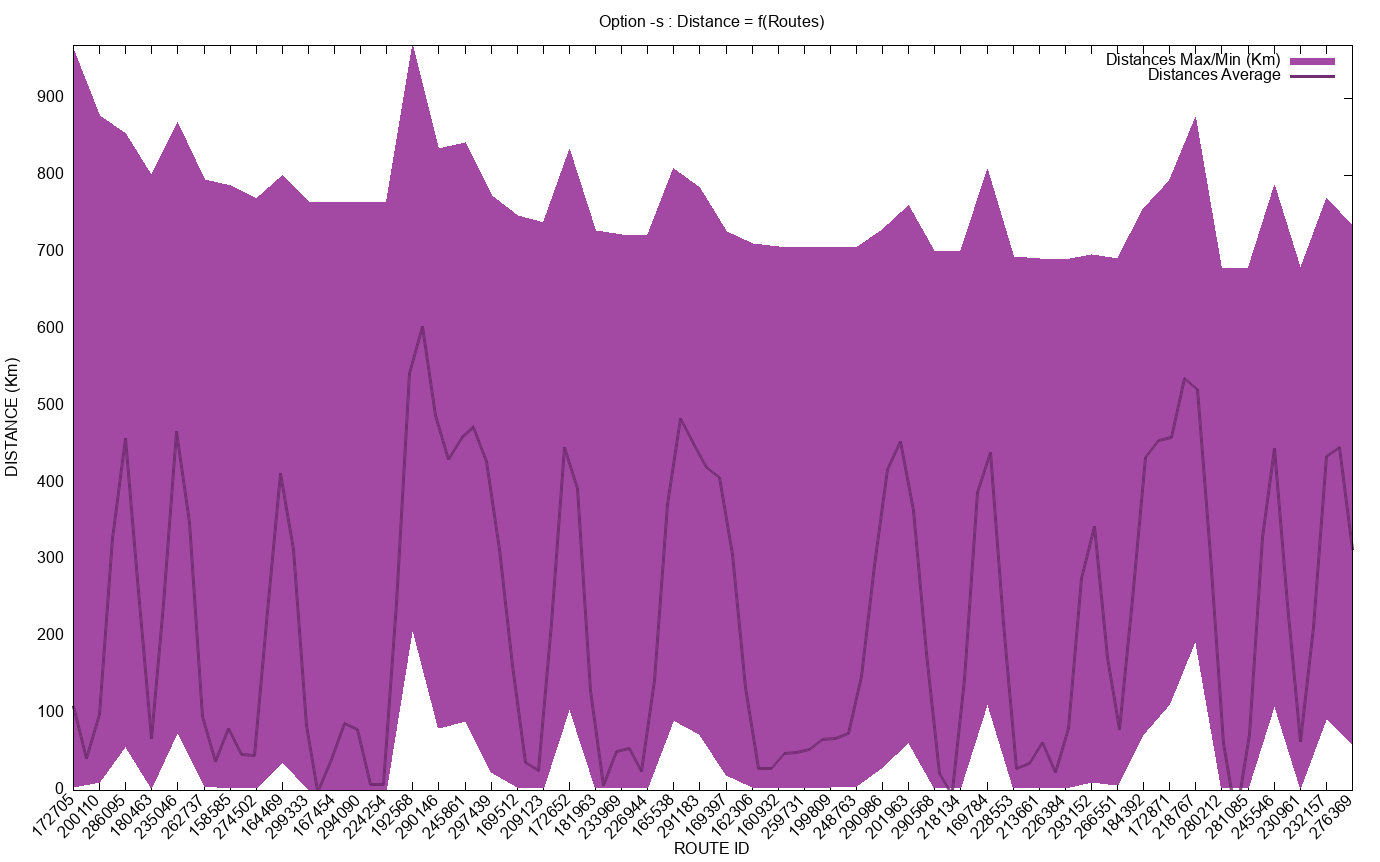
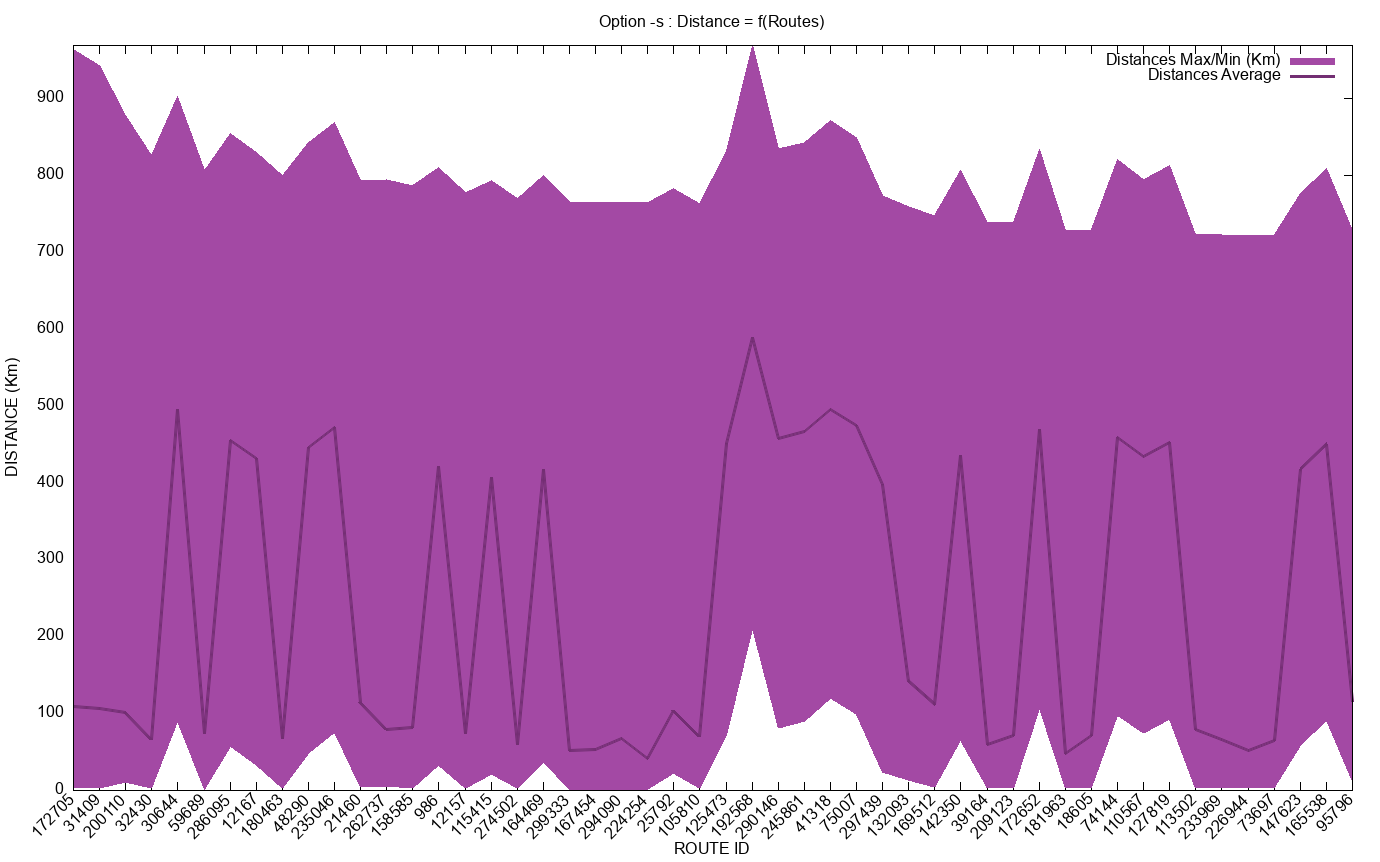
Fixed T, applied the same logic to S

diff --git a/progc/src/process.c b/progc/src/process.c
@@ -163,8 +163,17 @@ void T_Init(FILE* fData){
       pTemp->pRoutes = addAvlInt(pTemp->pRoutes, pLine->route_ID);
     }
   }
-  inorderTown(pTown);
-  return;
+  
+  //
+  // PASS 2 : get 10 most visited towns
+  // 
+  // To prevent previous issues with duplicate nPass values,
+  // We're going to avoid making an nPath AVL altogether.
+  // This is a bit hacky as using a sequential array to sort is
+  // slow, but we should only need to sort an array of size 10
+  // Since we'll only compare a value to the smallest of the array
+  // to not even compare our input values should we not need to
+  // add them to the top 10.
   AvlTown** top10;
   top10 = malloc(10*sizeof(AvlTown*));
   for (int i = 0; i < 10; i++) {
@@ -174,50 +183,58 @@ void T_Init(FILE* fData){
     top10[i]->nPass = 0;
     top10[i]->name = NULL;
   }
-  if (!CHECK_PTR(pTown)) T_Process1(pTown, top10);
+  if (!CHECK_PTR(pTown)) T_Process(pTown, top10);
 
-  for (int i = 0; i < 10; i++) {
-    printf("%s, %i, %i\n", top10[i]->name, top10[i]->nPass, top10[i]->nFirst);
-  }
-  return;
-  // Put our top10 in an AVL sorted by town name to sort the result when printing
+  // 
+  // PASS 3 : Alphabetical sorting
+  // 
+  // Now that we have our top 10 cities, sorting them
+  // by alphabetical order is trivial.
   AvlTown* top10pTown = createAvlTown(top10[0]->name);
   top10pTown->nPass = top10[0]->nPass;
   top10pTown->nFirst = top10[0]->nFirst;
   for (int i = 1; i<10; i++) {
     top10pTown = addAvlTown(top10pTown, top10[i]->name);
-    top10pTown->nPass = top10[0]->nPass;
-    top10pTown->nFirst = top10[0]->nFirst;
+    AvlTown* pNew = isInAvlTown(top10pTown, top10[i]->name);
+    pNew->nPass = top10[i]->nPass;
+    pNew->nFirst = top10[i]->nFirst;
   }
   inorderTown(top10pTown);
 }
 
 
 // Very simple code that just gets a top 10 of the values in pTown.
-void T_Process1(AvlTown* pTown, AvlTown** top10){
-  if(pTown){
-    pTown->nPass = avlIntSize(pTown->pRoutes); 
+// In theory, this is O(scary), but in practice, it should be fast
+// enough since our array is of size 10.
+void T_Process(AvlTown* pTown, AvlTown** top10) {
+  if (pTown) {
+    pTown->nPass = avlIntSize(pTown->pRoutes);
 
-    if(pTown->nPass > top10[9]->nPass){
+    // If pTown->nPass is large enough to be allowed in the top 10...
+    if (pTown->nPass > top10[9]->nPass) {
+      // ... Get where it can go to not break the sorting...
       int i = 0;
-      while((pTown->nPass < top10[i]->nPass) && i<10){
+      while ((pTown->nPass < top10[i]->nPass) && i < 10) {
         i++;
       }
-    
-      for(int j = i+1; j < 9; j++) {
-        top10[j]->nFirst = top10[j-1]->nFirst;
-        top10[j]->nPass = top10[j-1]->nPass;
-        top10[j]->name = top10[j-1]->name;
+
+      // "Sliiiiide to the right ! Cha cha real smooth  !""
+      for (int j = 8; j >= i; j--) {
+        top10[j+1]->name = top10[j]->name;
+        top10[j+1]->nPass = top10[j]->nPass;
+        top10[j+1]->nFirst = top10[j]->nFirst;
       }
+      // Add it to the newly made spot
       top10[i]->nPass = pTown->nPass;
       top10[i]->name = pTown->name;
       top10[i]->nFirst = pTown->nFirst;
     }
 
-    T_Process1(pTown->pL, top10);
-    T_Process1(pTown->pR, top10);
+    T_Process(pTown->pL, top10);
+    T_Process(pTown->pR, top10);
   }
 }
+
 
 // VESTIGIAL !
 // This was the code for the 1.0.0 version of T2. In fact, it works ! It's not sorted,
@@ -313,16 +330,6 @@ void T2_Init(FILE* fData){
       }
     }
   }
-  T2_Process(pTown);
-}
-
-// Also vestigial...
-void T2_Process(AvlTown* pTown) {
-  if (pTown != NULL) {
-    T2_Process(pTown->pL);
-    printf("%s;%i;%i\n", pTown->name, pTown->nPass, avlDriverNodeCount(pTown->pDrivers));
-    T2_Process(pTown->pR);
-  }
 }
 
 
@@ -346,7 +353,7 @@ void S_Init(FILE* fData){
   //
   while (readLine(fData, pLine)) {
     // read the current line
-    long routeID = pLine->route_ID;
+    int routeID = pLine->route_ID;
     AvlRoute* pTemp = isInAvlRoute(pRoute, routeID);
     float dist = pLine->distance;
     // Insert the data into the tree
@@ -356,6 +363,7 @@ void S_Init(FILE* fData){
       pRoute->distTot = dist;
       pRoute->distMax = dist;
       pRoute->distMin = dist;
+      pRoute->distMaxMin = pRoute->distMax - pRoute->distMin;
     } else if (pTemp == NULL) {
       pRoute = addAvlRoute(pRoute, routeID);
       pNew = isInAvlRoute(pRoute, routeID);
@@ -367,47 +375,63 @@ void S_Init(FILE* fData){
       pTemp->nSteps++;
       if (pTemp->distMin > dist) pTemp->distMin = dist;
       if (pTemp->distMax < dist) pTemp->distMax = dist;
+      pTemp->distMaxMin = pTemp->distMax - pTemp->distMin; 
       pTemp->distTot += dist;
     }
   }
   //
-  // PASS 2 : COMPUTE AVERAGES AND PRINT
+  // PASS 2 : COMPUTE AVERAGES
   //
-  AvlRoute2* sortedpRoute = NULL;
-  sortedpRoute = S_Process(pRoute, sortedpRoute);
-  int* i = malloc(sizeof(int));
-  if (CHECK_PTR(i)) exit (200);
-  *i = 0;
-  inorderRoute2(sortedpRoute, i);
+  AvlRoute** top50;
+  top50 = malloc(50*sizeof(AvlRoute*));
+  for (int i = 0; i < 50; i++) {
+    top50[i] = malloc(sizeof(AvlRoute));
+    if (CHECK_PTR(top50[i])) exit (200);
+    top50[i]->distMax = 0;
+    top50[i]->distMin = 0;
+    top50[i]->id = 0;
+    top50[i]->distMaxMin = 0;
+    top50[i]->distAvg = 0;
+  }
+  if (!CHECK_PTR(pRoute)) S_Process(pRoute, top50);
+  for (int i = 0; i < 50; i++) {
+    printf("%i;%f;%f;%f;%i\n", top50[i]->id, top50[i]->distMax, top50[i]->distMin, top50[i]->distAvg, i);
+  }
 }
 
-AvlRoute2* S_Process(AvlRoute* pRoute, AvlRoute2* sortedpRoute) {
-  if (pRoute != NULL) {
-    S_Process(pRoute->pL, sortedpRoute);
-    AvlRoute2* pNew = NULL;
-    int routeID = pRoute->id;
-    float distMaxMin = pRoute->distMax - pRoute->distMin;
-    float distAvg = pRoute->distTot / pRoute->nSteps;
-    // Insert the data into the tree
-    if (sortedpRoute == NULL) {
-      sortedpRoute = createAvlRoute2(distMaxMin);
-      sortedpRoute->id = routeID;
-      sortedpRoute->distAvg = distAvg;
-      sortedpRoute->distMax = pRoute->distMax;
-      sortedpRoute->distMin = pRoute->distMin;
-    } else {
-      // This suffers from the SAME BUG as the other AVLs.
-      // We really need to fix this...
-      sortedpRoute = addAvlRoute2(sortedpRoute, distMaxMin);
-      pNew = isInAvlRoute2(sortedpRoute, distMaxMin);
-      
-      pNew->distAvg = distAvg;
-      pNew->distMax = pRoute->distMax;
-      pNew->distMin = pRoute->distMin;
-      pNew->id = routeID;
+
+// See : T_process
+void S_Process(AvlRoute* pRoute, AvlRoute** top50) {
+  if (pRoute) {
+    pRoute->distAvg = pRoute->distTot / pRoute->nSteps;
+
+    // If pRoute->distMaxMin is large enough to be allowed in the top 50...
+    if (pRoute->distMaxMin > top50[49]->distMaxMin) {
+      // ... Get where it can go to not break the sorting...
+      int i = 0;
+      while ((pRoute->distMaxMin < top50[i]->distMaxMin) && i < 50) {
+        i++;
+      }
+
+      // "Sliiiiide to the right ! Cha cha real smooth  !""
+      for (int j = 48; j >= i; j--) {
+        // The very thought of doing this makes me feel gross.
+        // But eh, it's only size 50. Again, O(scary), but quick enough in practice.
+        top50[j+1]->distMax = top50[j]->distMax;
+        top50[j+1]->distMin = top50[j]->distMin;
+        top50[j+1]->id = top50[j]->id;
+        top50[j+1]->distMaxMin = top50[j]->distMaxMin;
+        top50[j+1]->distAvg = top50[j]->distAvg;  
+      }
+      // Add it to the newly made spot
+      top50[i]->distMax = pRoute->distMax;
+      top50[i]->distMin = pRoute->distMin;
+      top50[i]->id = pRoute->id;
+      top50[i]->distMaxMin = pRoute->distMaxMin;
+      top50[i]->distAvg = pRoute->distAvg; 
     }
 
-    S_Process(pRoute->pR, sortedpRoute);
+    S_Process(pRoute->pL, top50);
+    S_Process(pRoute->pR, top50);
   }
-  return sortedpRoute;
 }

diff --git a/progc/src/process.h b/progc/src/process.h
@@ -42,12 +42,11 @@
 
 
     void T_Init(FILE* fData);
-    void T_Process1(AvlTown* pTown, AvlTown** top10);
+    void T_Process(AvlTown* pTown, AvlTown** top10);
 
     void T2_Init(FILE* fData);
-    void T2_Process(AvlTown* pTown);
 
     void S_Init(FILE* fData);
-    AvlRoute2* S_Process(AvlRoute* pRoute, AvlRoute2* sortedpRoute);
+    void S_Process(AvlRoute* pRoute, AvlRoute** top50);
 
 #endif

diff --git a/progc/src/AVL/AVL_Town.c b/progc/src/AVL/AVL_Town.c
@@ -254,7 +254,7 @@ AvlTown *avlTownRotationLR(AvlTown *pTree) {
 void inorderTown(AvlTown *pTree){
   if(!CHECK_PTR(pTree)){
     inorderTown(pTree->pL);
-    printf("%s;%i;%i\n",pTree->name, avlIntSize(pTree->pRoutes), pTree->nFirst);
+    printf("%s;%i;%i\n",pTree->name, pTree->nPass, pTree->nFirst);
     inorderTown(pTree->pR);
   }
 }

diff --git a/progc/src/AVL/AVL_Route.h b/progc/src/AVL/AVL_Route.h
@@ -15,6 +15,8 @@
       float distTot;          // Total Distance
       float distMin;          // I sincerely hope that these are explicit enough.
       float distMax;
+      float distMaxMin;
+      float distAvg;
       int nSteps;
     } AvlRoute;
 

diff --git a/progc/src/AVL/AVL_Route.c b/progc/src/AVL/AVL_Route.c
@@ -10,6 +10,8 @@ AvlRoute* createAvlRoute(int id) {
   pNew->distTot = 0;
   pNew->distMax = 0;
   pNew->distMin = 0;
+  pNew->distMaxMin = 0;
+  pNew->distAvg = 0;
   pNew->nSteps = 0;
   return pNew;
 }
